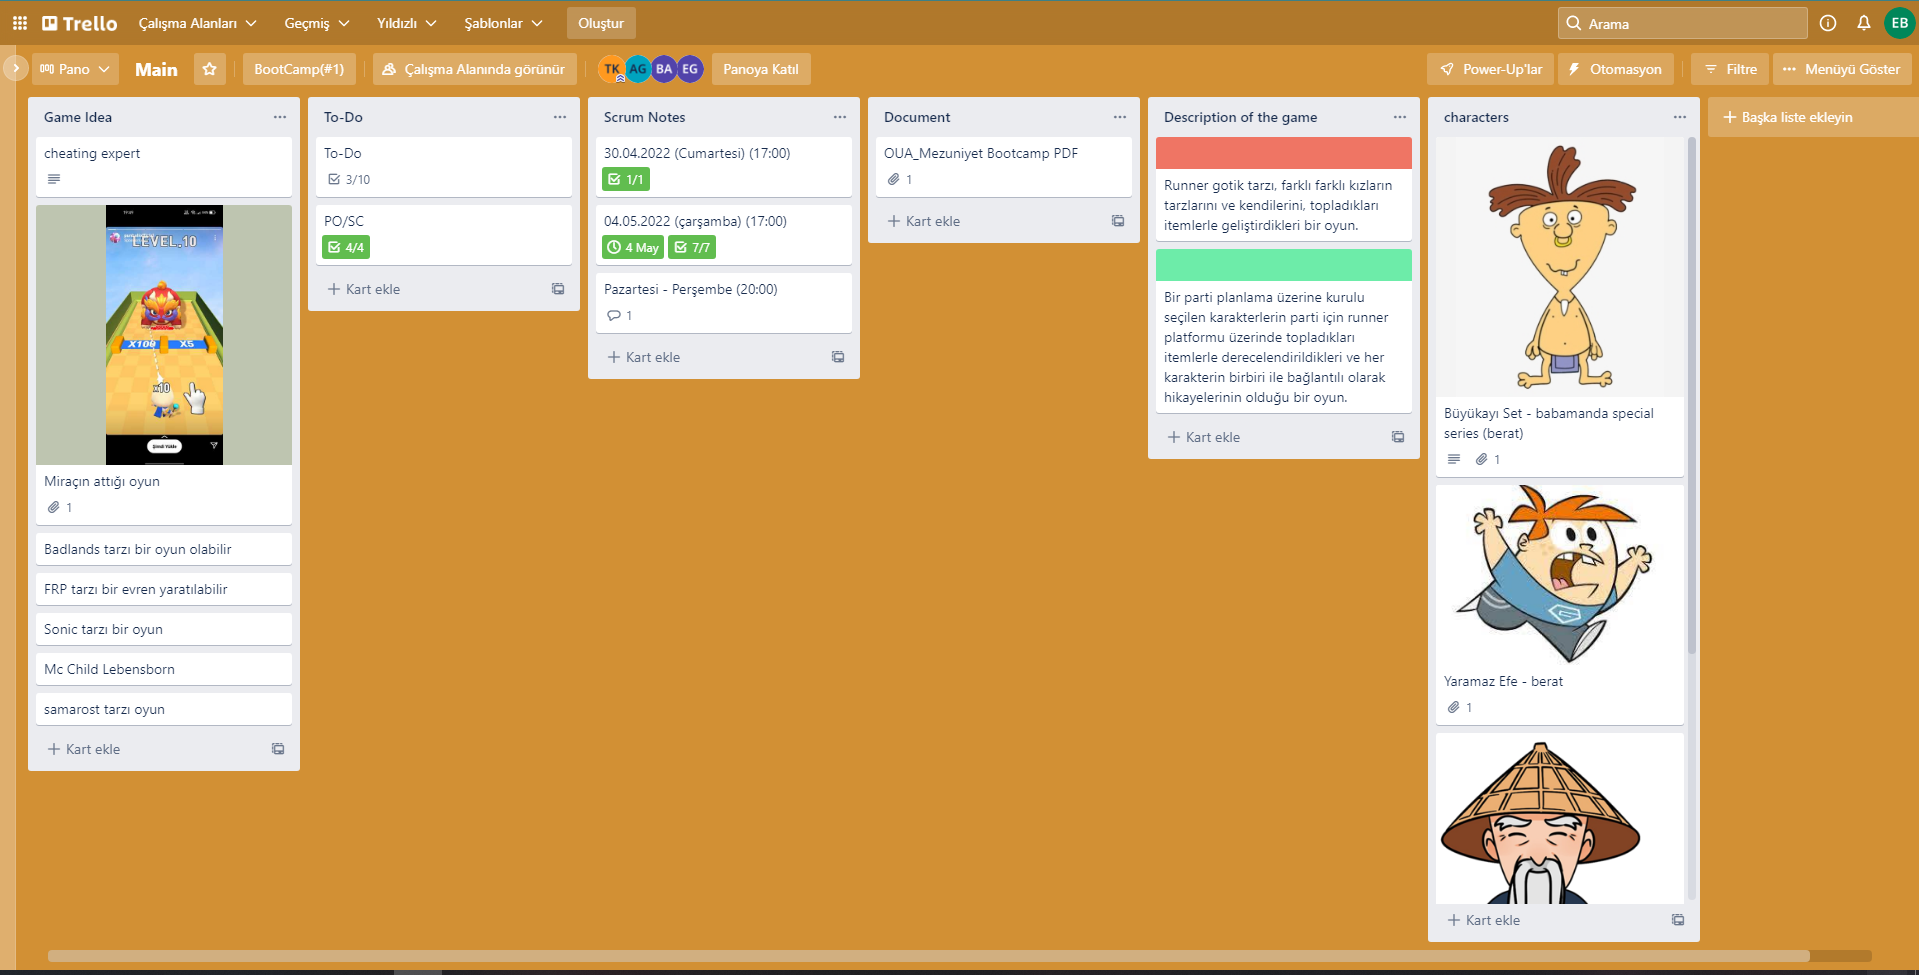
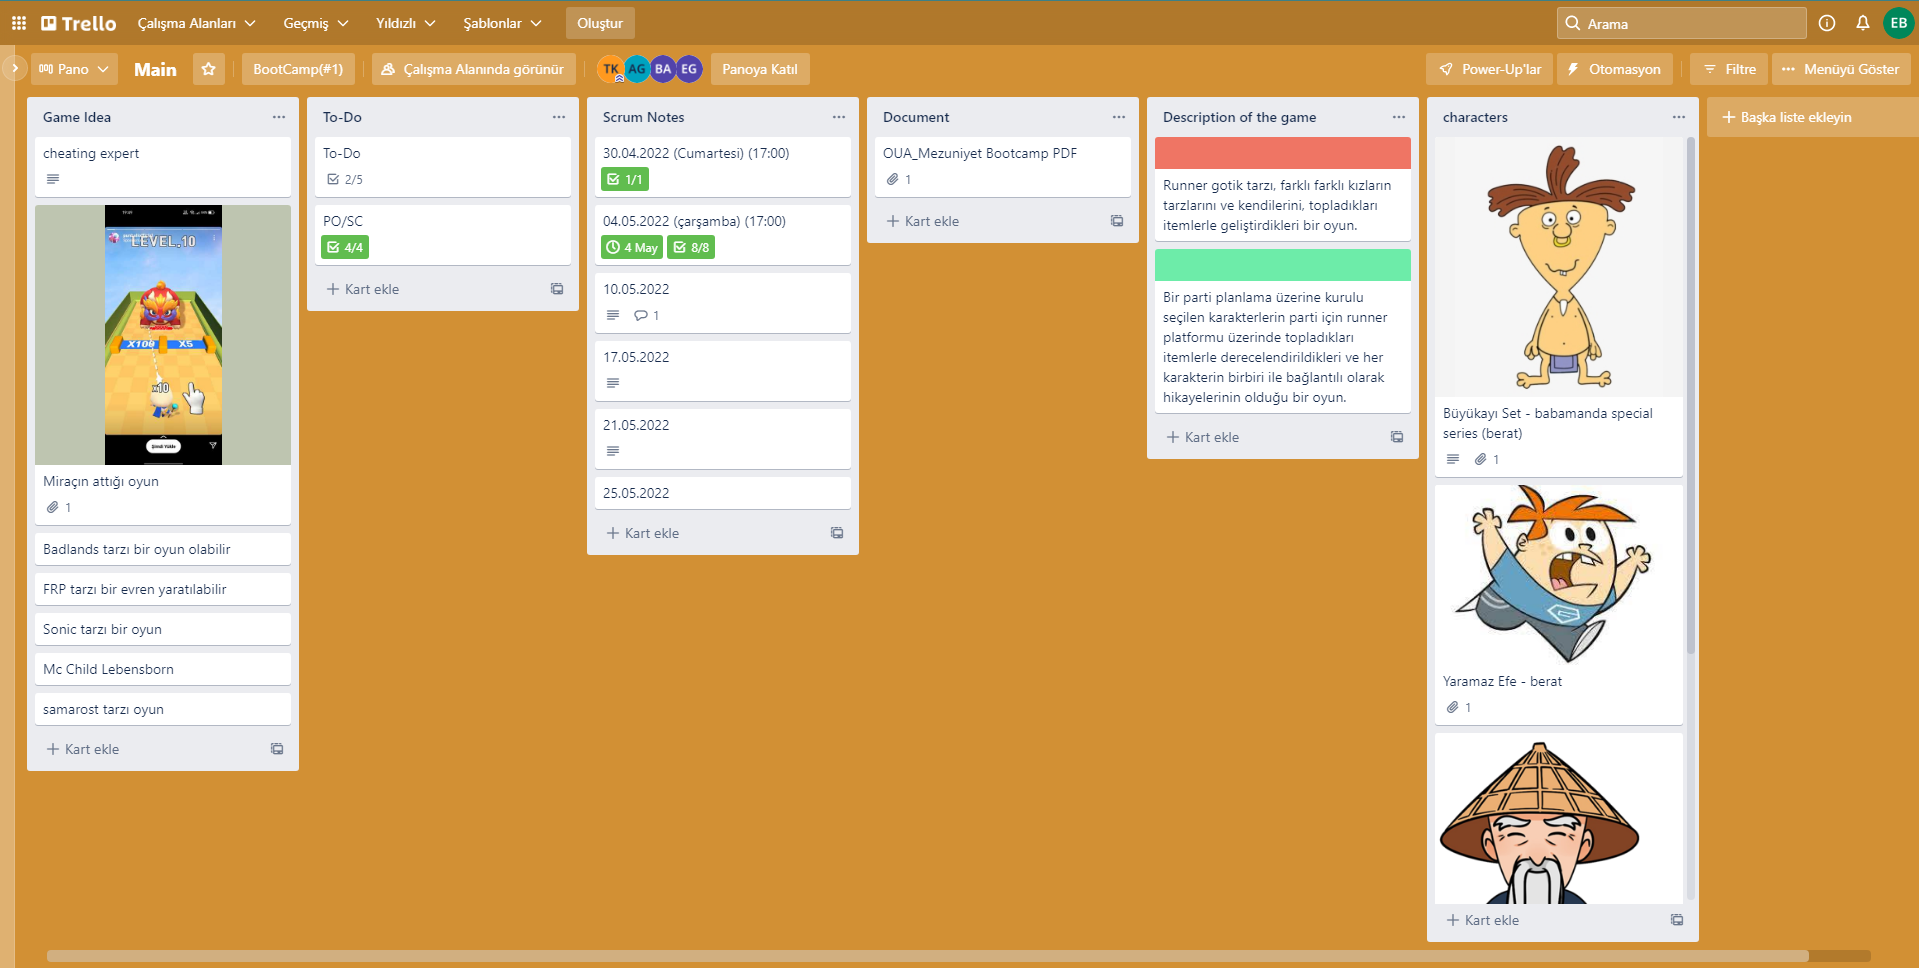
sprint 2 değişiklik

diff --git a/README.md b/README.md
@@ -85,13 +85,13 @@ Alınan kararlar: Herkesin aynı Unity 2020.3.25f1 sürümünü kullanma kararı
 
 - **Sprint içinde tamamlanması tahmin edilen puan**: 100 Puan
 
-- **Puan tamamlama mantığı**: Toplamda proje boyunca tamamlanması gereken 380 puanlık backlog bulunmaktadır. 4 sprint'e bölündüğünde ilk sprint'in en azından 100 ile başlaması gerektiğine karar verildi.
+- **Puan tamamlama mantığı**: Toplamda proje boyunca tamamlanması gereken 380 puanlık backlog bulunmaktadır. 4 sprint'e bölündüğünde ikinci sprint'in en azından 100 ile başlaması gerektiğine karar verildi. Puanlamalar sprint notes kısmı içinde yapıldı.
 
 - **Backlog düzeni ve Story seçimleri**: Backlog'umuz ilk yapılacak story'lere göre düzenlenmiştir. Sprint başına tahmin edilen puan sayısını geçmeyecek şekilde sıradan seçimler yapılmaktadır. Story başına çıkan tahmin puanı, toplam puanın yarısından az tutulmuştur. 
 
 Trello programı üzerinde taskler tamamlanmakta.
 
-- **Daily Scrum**: Daily Scrum toplantılarının herkesin erişim kolaylığından dolayı Zoom ve Google Meeting üzerinden yapılmasına karar verilmiştir. Daily Scrum toplantısı örneği jpeg veya word olarak Readme'de tarafımızdan paylaşılmaktadır: [Sprint 1 Daily Scrum Chats](https://github.com/TheOldRoe/Unity-88/blob/main/google-meeting%20sprint2.png)
+- **Daily Scrum**: Daily Scrum toplantılarının herkesin erişim kolaylığından dolayı Zoom ve Google Meeting üzerinden yapılmasına karar verilmiştir. Daily Scrum toplantısı örneği jpeg veya word olarak Readme'de tarafımızdan paylaşılmaktadır: [Sprint 2 Daily Scrum Chats](https://github.com/TheOldRoe/Unity-88/blob/main/google-meeting%20sprint2.png)
 
 - **Sprint board update**: Sprint board screenshotları: 
 ![Backlog 1](https://github.com/TheOldRoe/Unity-88/blob/main/trello%20sprint%202.png) 
